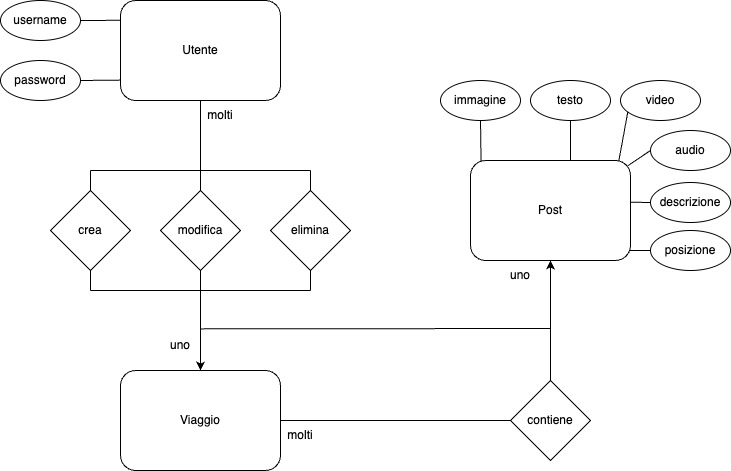
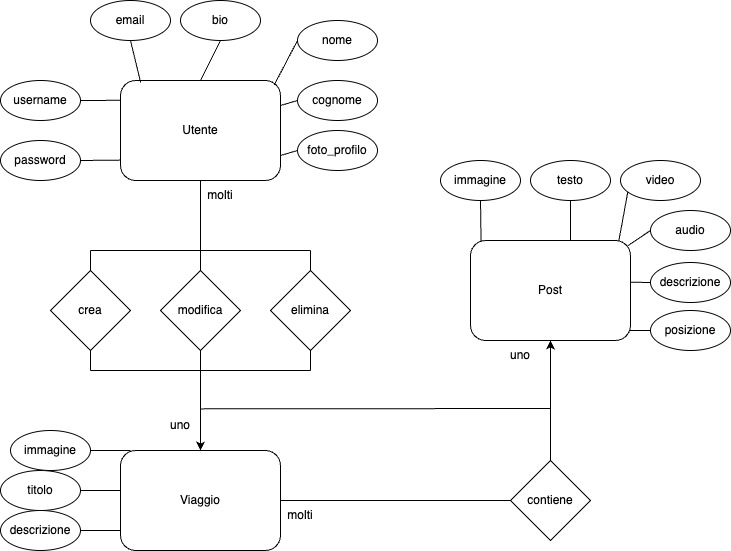
newViaggio

diff --git a/public/home.html b/public/home.html
@@ -24,21 +24,66 @@
                         <i class="fa fa-home fa-3x"></i>
                     </a>
     
-                    
                     <a href="user.html">
                         <i class="fa fa-user fa-3x"></i>
                     </a>
                     
-                    <a href="">
-                        <i class="fa fa-plus fa-3x"></i>
-                    </a>
-                    
-                    
+                    <button>
+                        <i class="fa fa-plus fa-3x" id="openModal"></i>
+                    </button>
+                
     
                     <button id="btn-logout">
                         Log Out
                     </button>
                 </div>
+            </div>
+        </div>
+        <div class="modal" id="modal">
+            <div class="modal-container">
+                <div class="modal-left">
+                    <form>
+                        <h1>Aggiungi viaggio</h1>
+                        <div class="input-block">
+                            <label for="titolo_viaggio_input" class="input-label">Titolo</label>
+                            <input type="text" id="titolo_viaggio_input">
+                        </div>
+                        <div class="error-space">
+                            <p class="invisible" id="titolo_error">Titolo vuoto</p>
+                        </div>
+                        
+
+                        <div class="textarea-block">
+                            <label for="descrizione_viaggio_input" class="input-label">Descrizione</label>
+                            <textarea id="descrizione_viaggio_input"></textarea>
+                        </div>
+                        <div class="error-space">
+                            <p class="invisible" id="descrizione_error">Descrizione vuota</p>
+                        </div>
+                        
+
+                        <div class="input-block">
+                            <label for="immagine_viaggio_input" class="input-label">Immagine</label>
+                            <input type="file" id="immagine_viaggio_input">
+                        </div>
+                        <div class="error-space">
+                            <p class="invisible" id="immagine_error">Inserisci l'immagine</p>
+                        </div>
+                        
+
+                        <div class="modal-buttons">
+                            <button type="button" class="input-button" id="newViaggio_btn">Aggiungi viaggio</button>
+                        </div> 
+                    </form>
+                </div>
+                <div class="modal-right" id="modal-right">
+                  <img src="assets/images/logo_sfondo.png" alt="">
+                </div>
+                <button class="icon-button close-button" id="close_btn">
+                  <svg xmlns="http://www.w3.org/2000/svg" viewBox="0 0 50 50">
+                    <path d="M 25 3 C 12.86158 3 3 12.86158 3 25 C 3 37.13842 12.86158 47 25 47 C 37.13842 47 47 37.13842 47 25 C 47 12.86158 37.13842 3 25 3 z M 25 5 C 36.05754 5 45 13.94246 45 25 C 45 36.05754 36.05754 45 25 45 C 13.94246 45 5 36.05754 5 25 C 5 13.94246 13.94246 5 25 5 z M 16.990234 15.990234 A 1.0001 1.0001 0 0 0 16.292969 17.707031 L 23.585938 25 L 16.292969 32.292969 A 1.0001 1.0001 0 1 0 17.707031 33.707031 L 25 26.414062 L 32.292969 33.707031 A 1.0001 1.0001 0 1 0 33.707031 32.292969 L 26.414062 25 L 33.707031 17.707031 A 1.0001 1.0001 0 0 0 32.980469 15.990234 A 1.0001 1.0001 0 0 0 32.292969 16.292969 L 25 23.585938 L 17.707031 16.292969 A 1.0001 1.0001 0 0 0 16.990234 15.990234 z"></path>
+                  </svg>
+                </button>
             </div>
         </div>
         

diff --git a/public/home.js b/public/home.js
@@ -51,4 +51,68 @@ loadTravels().then((result)=>{
 })
 
 
+
+//modal new viaggio
+const modal = document.getElementById("modal");
+const closeButton = document.querySelector(".close-button");
+const openModal_btn = document.getElementById("openModal");
+const close_btn = document.getElementById("close_btn");
+
+let isOpened = false;
+
+const openModal = () => {
+  modal.classList.add("is-open");
+};
+
+const closeModal = () => {
+  modal.classList.remove("is-open");
+};
+
+
+
+openModal_btn.onclick=()=>{
+    openModal();
+}
+close_btn.onclick=()=>{
+    closeModal();
+}
+
+
+
+
+//add viaggio
+const newViaggio = document.getElementById("newViaggio_btn");
+const titoloInput = document.getElementById("titolo_viaggio_input");
+const descrInput = document.getElementById("descrizione_viaggio_input");
+const immInput = document.getElementById("immagine_viaggio_input");
+
+const titoloErr = document.getElementById("titolo_error");
+const descrErr = document.getElementById("descrizione_error");
+const immErr = document.getElementById("immagine_error");
+
+newViaggio.onclick=()=>{
+    const titolo = titoloInput.value;
+    if(!titolo){
+        titoloErr.classList.remove("invisible");
+        setTimeout(()=>{
+            titoloErr.classList.add("invisible");
+        },2000)
+    }
+
+    const descrizione = descrInput.value;
+    if(!descrizione){
+        descrErr.classList.remove("invisible");
+        setTimeout(()=>{
+            descrErr.classList.add("invisible");
+        },2000)
+    }
+    const immagine = immInput.value;
+    if(!immagine){
+        immErr.classList.remove("invisible");
+        setTimeout(()=>{
+            immErr.classList.add("invisible");
+        },2000)
+    }
+    console.log(titolo, descrizione, immagine)
+}
   

diff --git a/public/styles.css b/public/styles.css
@@ -20,16 +20,15 @@ body{
     background: none;
     border: none;
     cursor: pointer;
-    transition: all 0.3s ease;
     color: rgb(60, 60, 60);
+    transition: all 0.3s ease;
 }
 
 
-
-.right-nav a:hover,
-.right-nav button:hover{
-    color: rgb(100,100,100);
-    font-size: 25px;
+.right-nav button:hover,
+.right-nav a:hover{
+  color: rgb(100,100,100);
+  transform: scale(1.1);
 }
 
 
@@ -83,6 +82,11 @@ body{
   width:100%;
   background-color: #55311c;
 } */
+
+.error-space{
+  height: 20px;
+  margin-bottom: 20px;
+}
 
 
 .login_form{
@@ -233,6 +237,20 @@ body{
   .sign-up a {
     color: #8c7569;
   }
+
+
+  .input-file{
+    width: 90px;
+    padding: 8px 12px;
+    outline: none;
+    border: 1px solid #8c7569 ;
+    color: #8c7569;
+    border-radius: 4px;
+    background: #fff;
+    font-family: "Nunito", sans-serif;
+    transition: 0.3s;
+    cursor: pointer;
+  }
   
   .input-button {
     padding: 8px 12px;
@@ -265,7 +283,6 @@ body{
     padding: 10px 10px 8px;
     border: 1px solid #ddd;
     border-radius: 4px;
-    margin-bottom: 20px;
     transition: 0.3s;
 }
 

diff --git a/public/login.html b/public/login.html
@@ -30,7 +30,7 @@
                 <form class="login_form" id="login_form">
                     <h1>Log in</h1>
                     <div class="input-block">
-                        <label for="username_input" class="input-label">Username</label>
+                        <label for="username" class="input-label">Username</label>
                         <input type="text" id="username" >
                     </div>
                     <div class="input-block">
